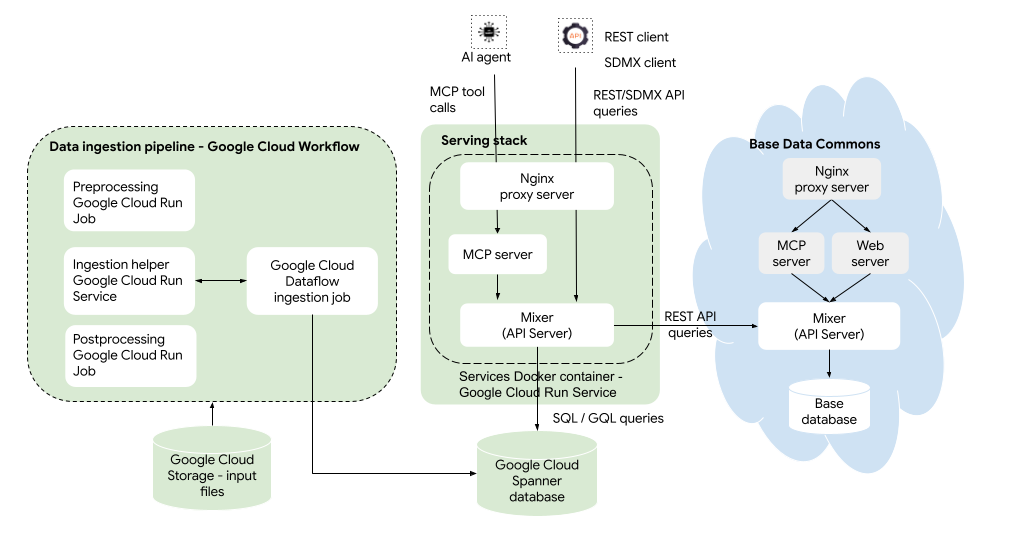
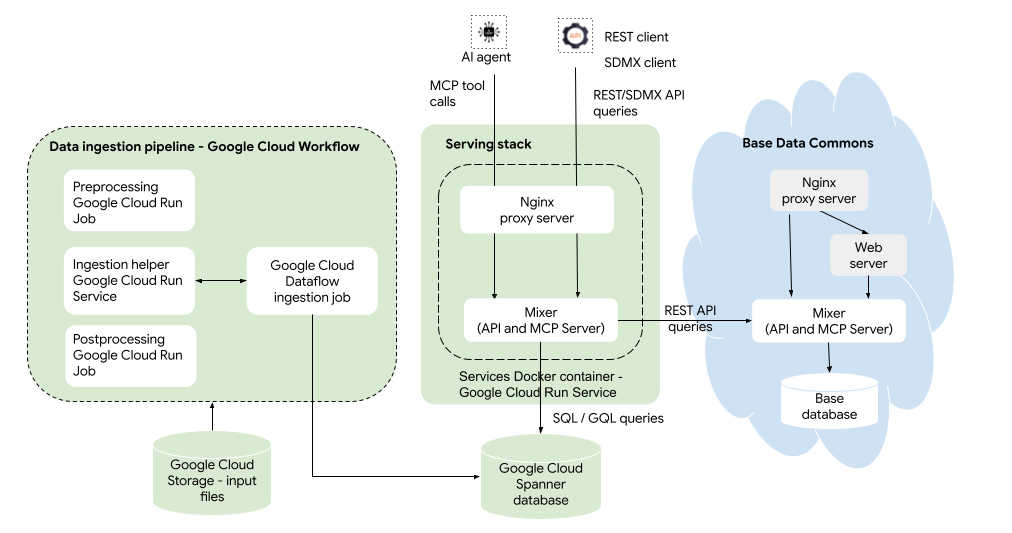
Remove references to MCP server

diff --git a/docs/user_guide.md b/docs/user_guide.md
@@ -31,6 +31,7 @@ The following section describes how the Platform differs from Custom Data Common
 * Data can be rebuilt on a per-import basis, instead of rebuilding all data. 
 * There is no NL Server.
 * There is no web server or `website` repo.
+* MCP functionality has been moved into the Mixer and the MCP server is removed. 
 
 ### Workflow
 
@@ -50,7 +51,7 @@ The following section describes how the Platform differs from Custom Data Common
 ### APIs
 
 * Basic [SDMX](https://sdmx.org/) read APIs are available: Availability and Data
-* REST and Python V2 APIs support filtering and chaining on any property and arc direction, and resolution on any entity type
+* REST and Python V2 APIs support filtering and chaining on any property and arc direction, and resolution on any entity type.
 
 ### MCP
 
